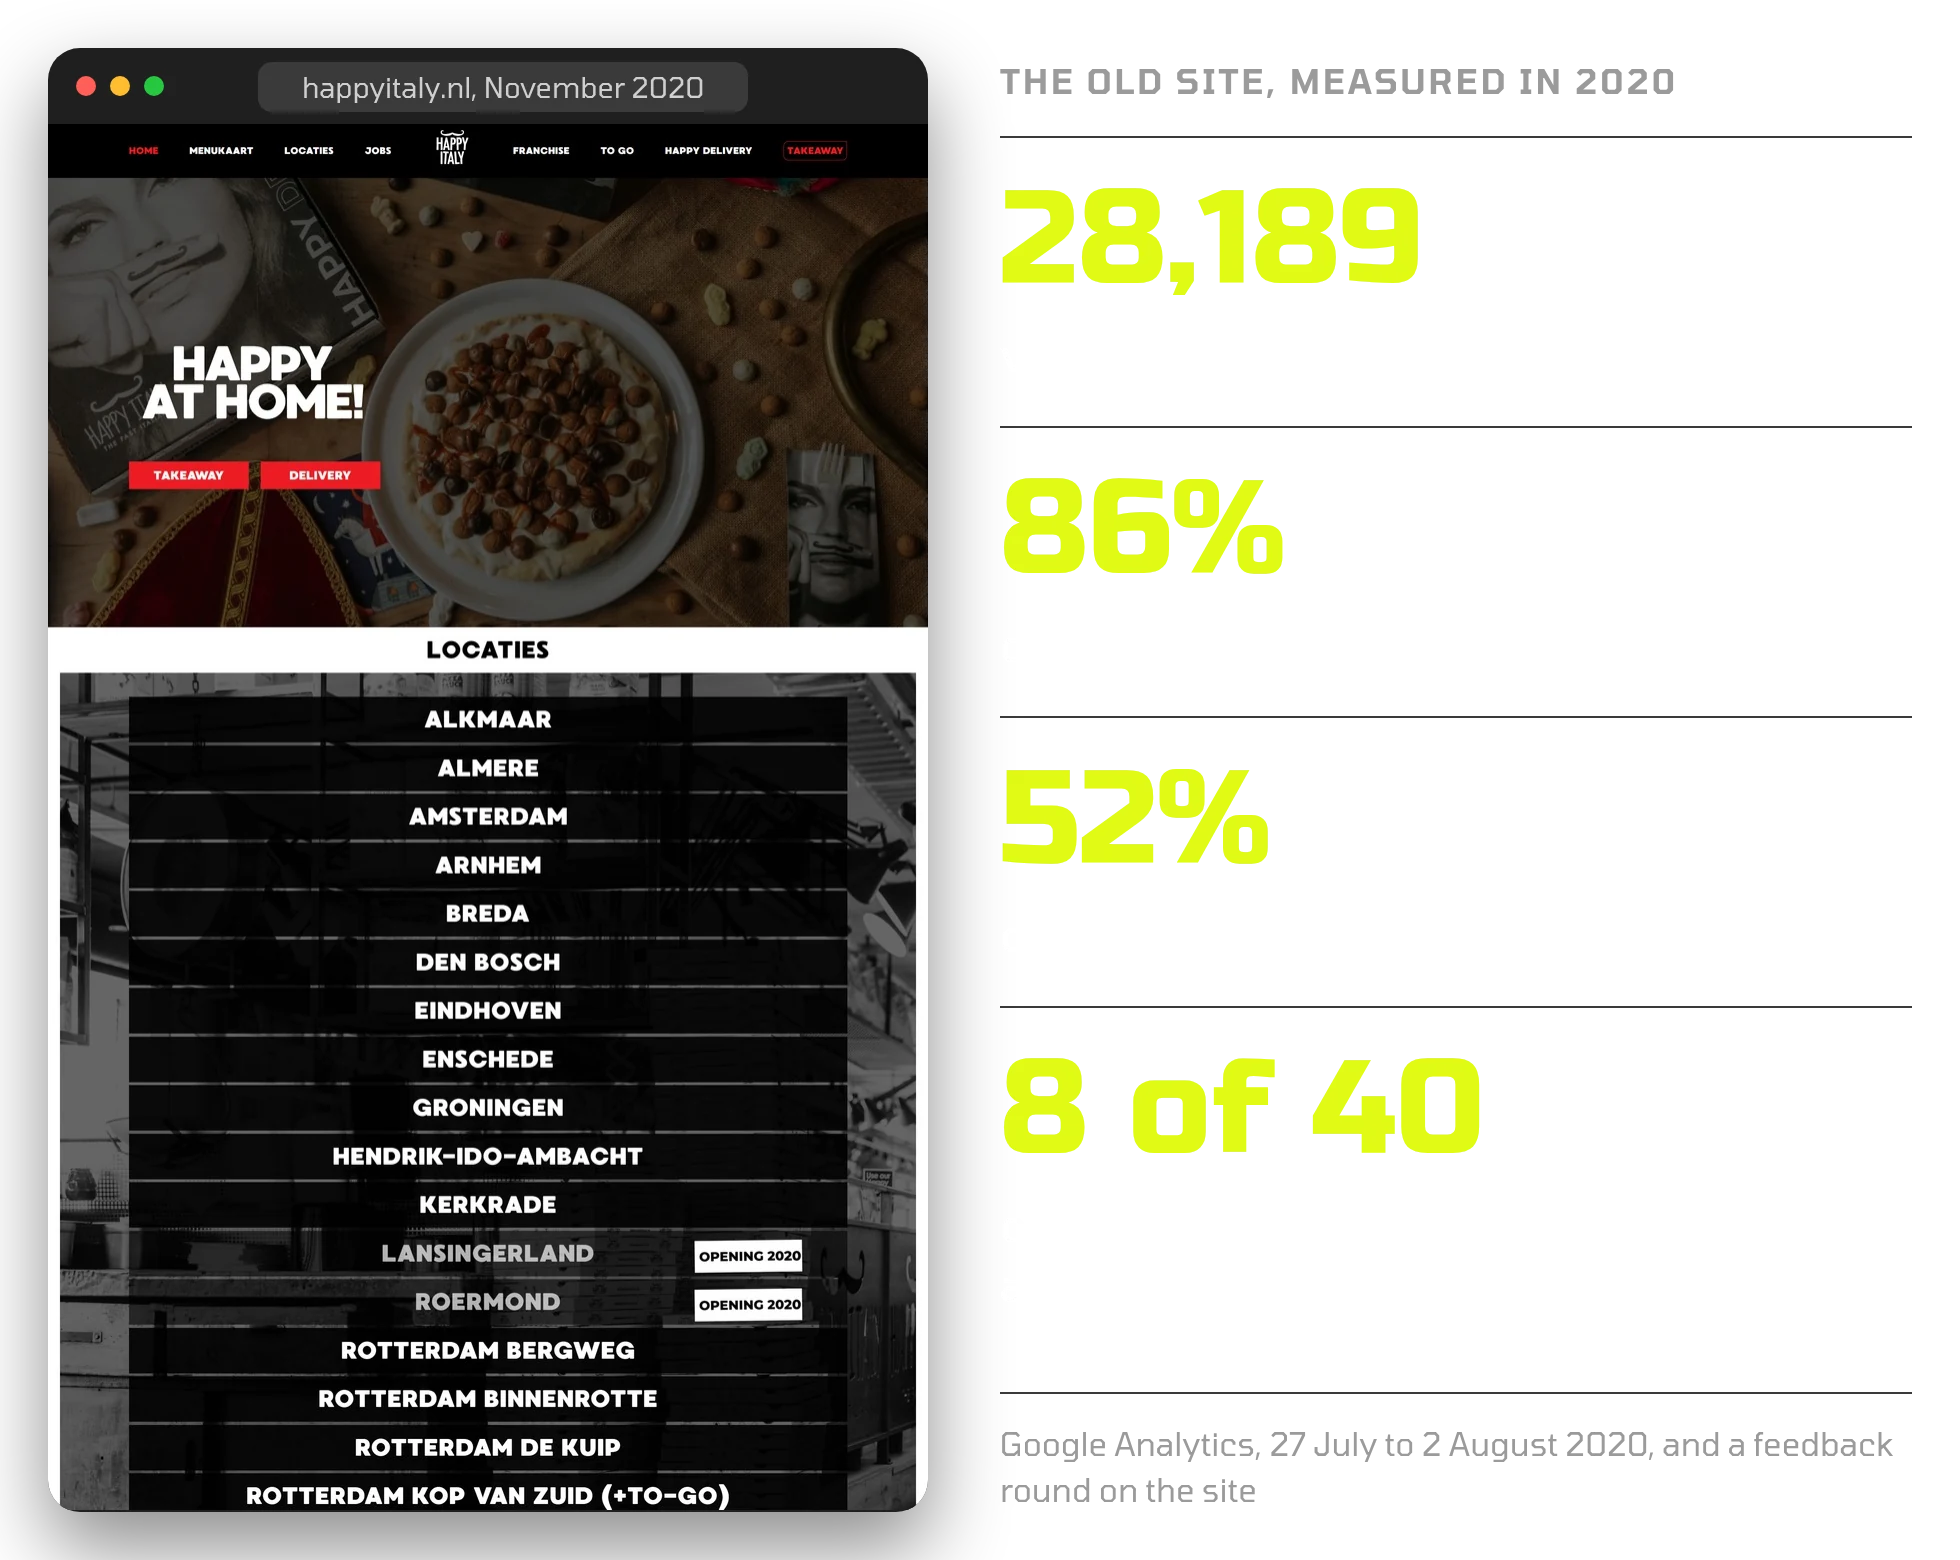
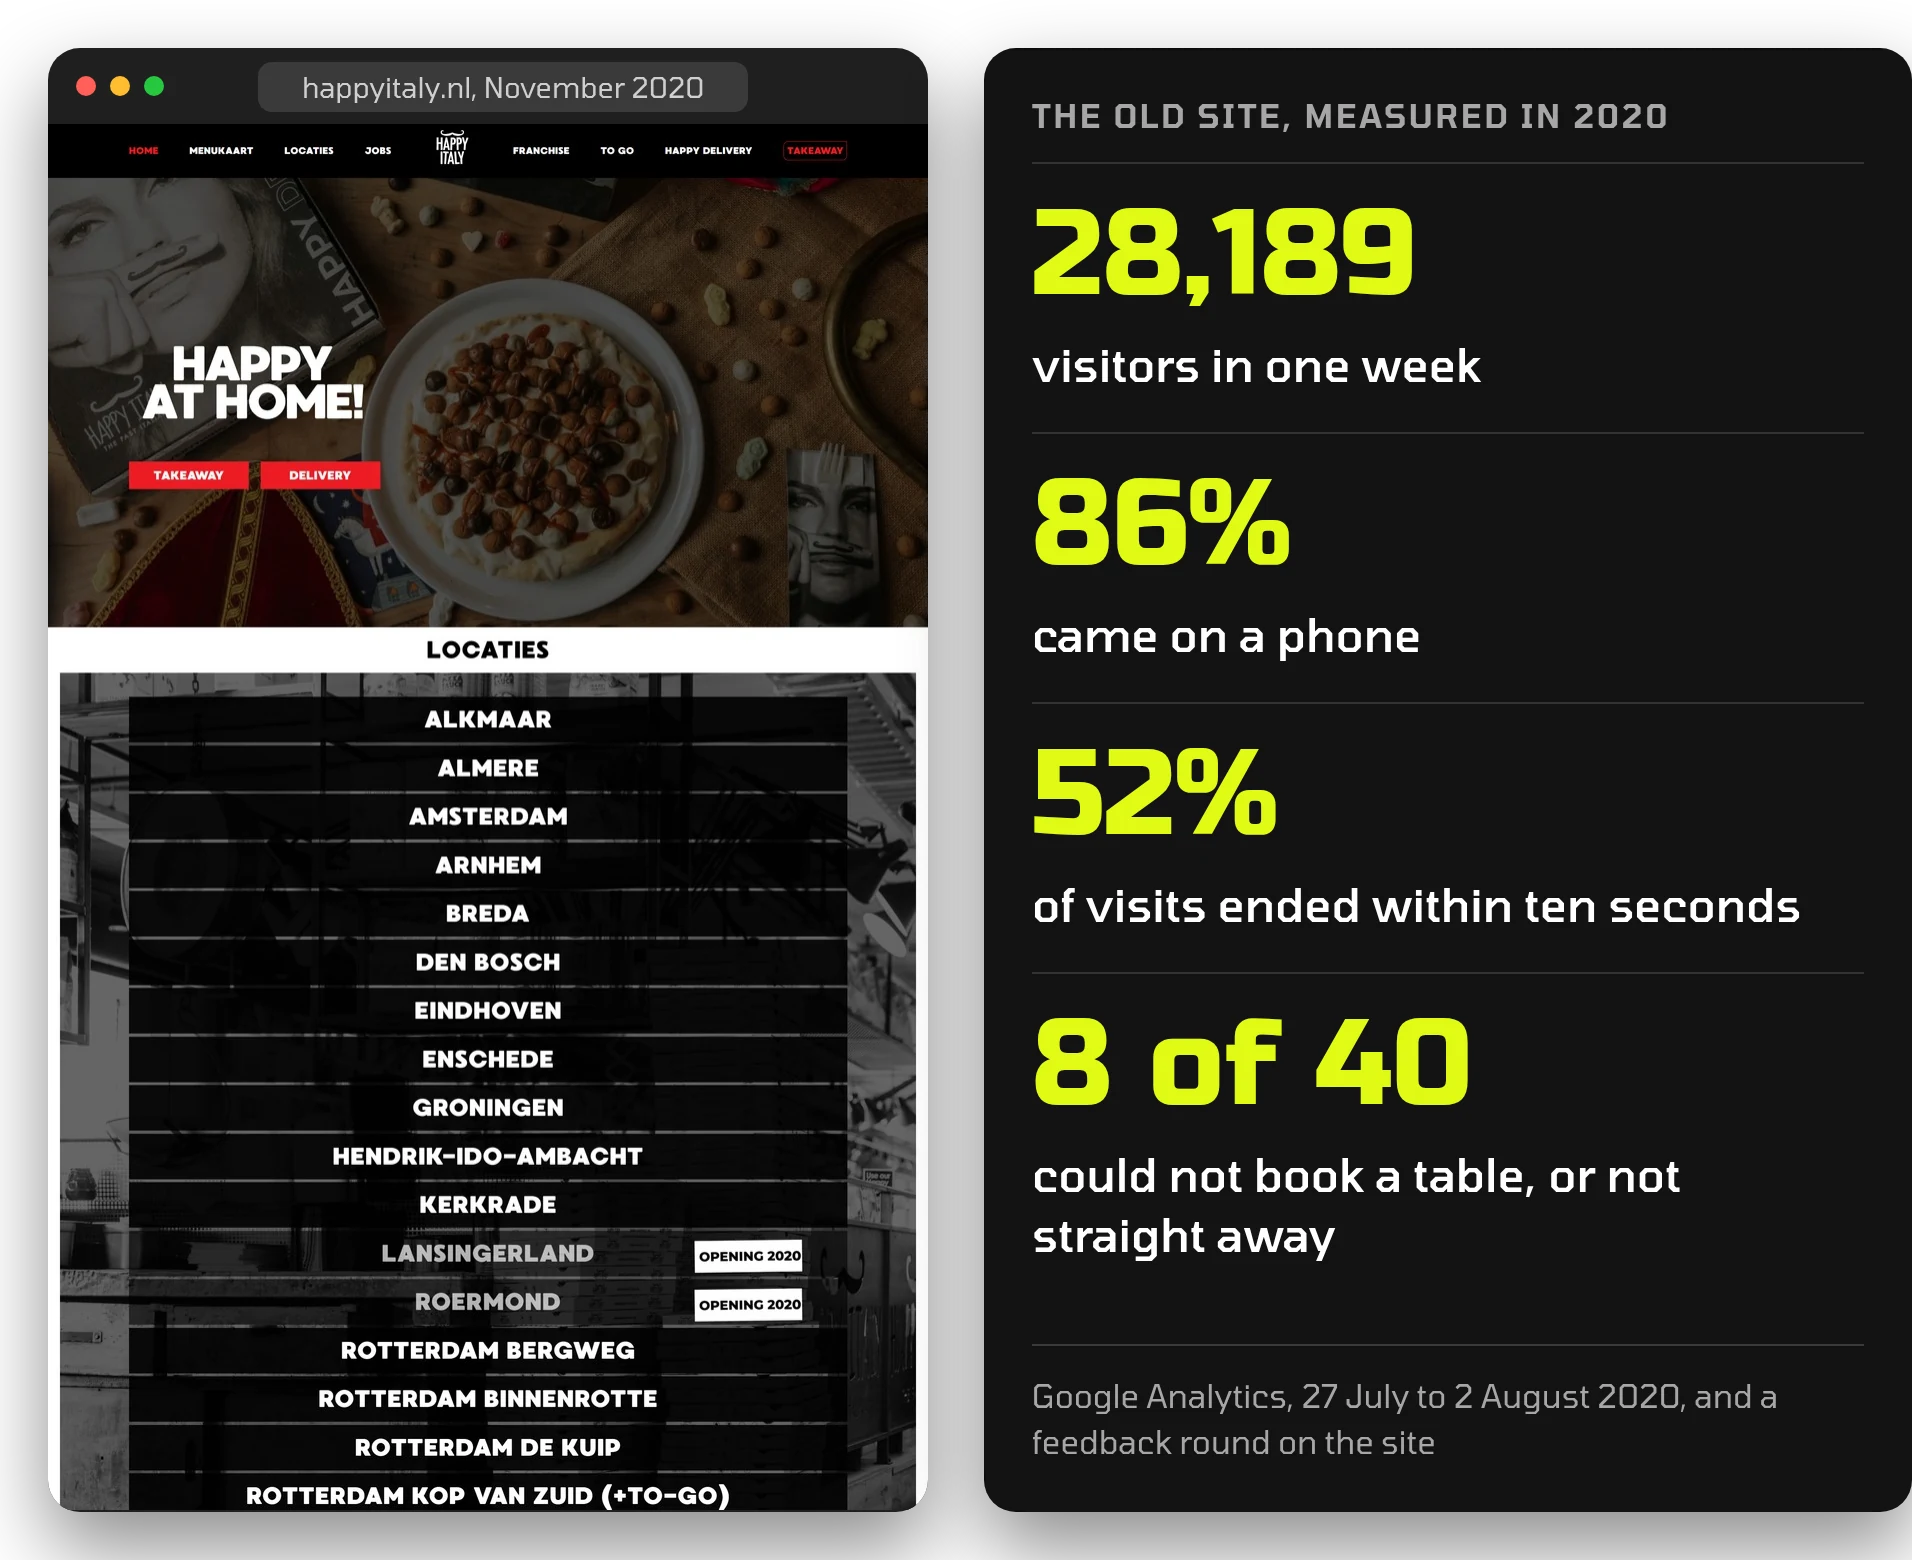
Happy Italy app: survey, ordering test, feedback concepts and handover facts from Musa's Drive; research panel readable in light theme [skip netlify]

diff --git a/src/data/work.ts b/src/data/work.ts
@@ -248,19 +248,21 @@ export const cases: Case[] = [
 	{
 		// Happy Italy app. Rewritten 17 Nov 2026 from Musa's 2021 case page and his Figma files; facts confirmed by Musa.
 		// Split from the website on Musa's request. Never show the filled-in sign-up screens (real phone number and email).
+		// Drive (read 24 Nov 2026): survey export (93 responses), feedback concepts Oct 2020, flowchart Aug 2020, ordering test notes 14 Jun 2021
+		// (6 testers with notes, 24 to 42), handover notes Jul 2021 (soft launch near, scope cuts, coupon QR idea). Never quote the handover's credentials.
 		slug: 'happy-italy-app',
 		name: 'Happy Italy app',
 		title: 'A loyalty app scoped to what the tills could do',
-		summary: 'Happy Italy, a chain of 20 Italian restaurants, wanted a direct line to its guests while lockdowns kept the dining rooms closed. I designed its ordering and rewards app from research to the design system the developers built from, and cut the first version to what the restaurant systems could actually carry.',
+		summary: 'Happy Italy, a chain of 20 Italian restaurants, wanted a direct line to its guests while lockdowns kept the dining rooms closed. I designed its ordering and rewards app from a survey of 93 people to a tested ordering flow and the design system an outside agency built from, and cut the first version to what the restaurant systems could carry.',
 		field: 'var(--panel-3)',
 		ink: 'var(--on-panel-3)',
 		facts: [
 			['Role', 'UX designer: research, UX and visual design, prototyping and testing'],
-			['Worked with', 'Management, restaurant stakeholders, an external development team'],
+			['Worked with', 'Management, restaurant stakeholders, an external development agency'],
 			['Platform', 'iOS and Android'],
 			['Years', '2020 to 2021'],
-			['Status', 'Designed, tested and in development when I left in July 2021. Never launched: the chain changed owners and the app was not funded'],
-			['Research', 'A survey of 90+ people, interviews, Google Analytics and Hotjar'],
+			['Status', 'Designed, tested and in development when I left in July 2021, nearing a small soft launch. Never launched: the chain changed owners and the app was not funded'],
+			['Research', 'A survey of 93 people, interviews, Google Analytics, Hotjar and usability tests'],
 		],
 		front: {
 			mast: 'Happy Italy',
@@ -269,7 +271,7 @@ export const cases: Case[] = [
 			star: { kind: 'comp', img: '/img/happy/happy-cover.webp', alt: 'Five Happy Italy app screens: picking a day and time, a live coupon with its countdown, the home screen with coupons, the profile with points, and a coupon', w: 2400, h: 1399 },
 		},
 		chapter: {
-			body: 'An ordering and rewards app for a restaurant chain closed by the lockdowns: from a survey of [90]+ people to a [114]-screen prototype, with the first version cut to what the tills could carry.',
+			body: 'An ordering and rewards app for a restaurant chain closed by the lockdowns: from a survey of [93] people to a [114]-screen prototype, with the first version cut to what the tills could carry.',
 			visual: { kind: 'image', img: '/img/happy/happy-cover.webp', alt: 'Five Happy Italy app screens: picking a day and time, a live coupon with its countdown, the home screen with coupons, the profile with points, and a coupon', w: 2400, h: 1399 },
 		},
 		closing: {
@@ -291,7 +293,7 @@ export const cases: Case[] = [
 			{
 				heading: 'Research cut the wish list',
 				body: [
-					'The kick-off with the stakeholders produced far more features than a first version could hold. I surveyed 90+ people about using apps in restaurants, recruited through Facebook groups, the newsletter and Reddit, and combined it with interviews, Google Analytics and Hotjar.',
+					'The kick-off with the stakeholders produced far more features than a first version could hold. I surveyed 93 people about restaurants and apps, recruited mostly through Facebook groups and Reddit, and combined it with interviews, Google Analytics and Hotjar. Most had never downloaded a restaurant app, and several said they would not install one for a single visit. Those who saw value named deals you only get in the app, and ordering ahead.',
 					'One persona could not cover the guests of a restaurant chain, so I made two and used them to decide what went into the first version: ordering, coupons, points and feedback. Everything else went on a list for version 2. The option that lost: launching with everything the kick-off asked for.',
 				],
 				shot: { kind: 'image', img: '/img/happy/happy-personas.webp', alt: 'The two personas for the Happy Italy app, Charlotte and Wouter, with their needs and pain points', w: 1820, h: 1832 },
@@ -301,6 +303,7 @@ export const cases: Case[] = [
 				body: [
 					'Coupons were the reason guests said they would open the app, so they lead the home screen; I tested three menu structures as wireframes and built on the one guests found most natural.',
 					'A coupon is used in the restaurant, so the guest activates it in front of staff and it stays valid for 15 minutes, with the countdown on screen. A screenshot can’t be passed around, and staff see at a glance that it is live. Expired coupons stay on the home screen, greyed out, so nobody wonders where theirs went.',
+					'Showing a coupon still leaves staff to judge it, and in my handover I called it a source of arguments at the counter. For the next version I listed a unique QR code per coupon: staff scan it, the discount applies itself, and the chain sees how many coupons are used in the app and in the restaurant.',
 				],
 				shot: { kind: 'image', img: '/img/happy/happy-coupon.webp', alt: 'The coupon flow in the app: the coupon, the prompt to activate it in front of staff, and the live coupon counting down from 15 minutes', w: 2213, h: 1433 },
 			},
@@ -308,20 +311,23 @@ export const cases: Case[] = [
 				heading: 'Order where you are',
 				body: [
 					'One start for every way to order: takeaway, delivery, or order and pay at the table. Then the restaurant, the day and the time, so the menu, prices and pickup slot are those of that restaurant at that moment.',
-					'A clickable prototype went to a small group of testers, and ordering and paying were where they struggled. We enlarged the buttons and the type, and added a red badge on the cart the moment something is added, so guests can see it worked.',
+					'In June 2021 I tested three versions of the ordering flow with six people aged 24 to 42 who order food on their phone, with one task: order a margherita with extra cheese and pay. In the first, testers weren’t sure the pizza was in the cart, hunted for the extra topping and missed the payment method. The third confirmed every addition straight away, listed all toppings together and put the payment method in plain sight. All six found it the easiest, and four scored it 5 out of 5.',
+					'Still open after the test: more colour, because the dark screens felt less like Happy Italy to some, and choosing the pickup time at the end of the order.',
 				],
 				shot: { kind: 'image', img: '/img/happy/happy-ordering.webp', alt: 'A pizza page in the app before and after the prototype test: after the test, a large add-to-cart button with the price', w: 1690, h: 1373 },
 			},
 			{
 				heading: 'Feedback earns points',
 				body: [
-					'The chain wanted to hear from guests after a visit. Rating it takes stars, a few short questions and an optional comment, and earns points, so feedback sits inside the loyalty loop instead of in a survey email.',
+					'The chain wanted to hear from guests while the visit was still fresh. In the flow I drew, the request comes a while after the order or once the till marks the bill paid, and answering earns points, so feedback sits inside the loyalty loop instead of in a survey email.',
+					'I explored several ways to ask. The option that lost: one question per screen, with faces and a progress line towards a trophy. The prototype kept five quick star ratings on one sheet, on the service, the speed, the food, the atmosphere and the menu, each with an optional comment.',
 				],
+				shot: { kind: 'image', img: '/img/happy/happy-feedback.webp', alt: 'Rating a visit in the app. Kept: a prompt that promises points, then five quick star ratings on one sheet, on the service, the speed, the food, the atmosphere and the menu. Explored: one question per screen with faces and a progress line, ending in plus ten points', w: 2576, h: 1200 },
 			},
 			{
 				heading: 'Rewards waited for the till',
 				body: [
-					'During the build it turned out the till and the online ordering platform could not yet handle claiming rewards with points. We took claiming out of the first version instead of shipping a flow that would fail at the counter; guests kept collecting points until the systems caught up.',
+					'During the build it turned out the till and the online ordering platform could not yet handle claiming rewards with points. We took claiming out of the first version instead of shipping a flow that would fail at the counter; guests kept collecting points until the systems caught up. The same limit held back allergens: I had designed them, but the till’s back office couldn’t hold them yet.',
 					'Because the app waits on several outside systems, I designed a loading state for every screen that does, so guests always see that something is happening.',
 				],
 			},
@@ -330,20 +336,21 @@ export const cases: Case[] = [
 				body: [
 					'There was no design system for web or app. I built one from the 2018 brand identity, updated so it would not look like the fast-food apps: type, colour sets for dark and light mode and for coupons, icons, navigation and 34 components.',
 					'Every app screen exists in dark and light. I checked colour pairs against WCAG 2.0 contrast and refined the library before handing it to the external developers.',
+					'An outside agency built the app on the till supplier’s system, which held the menu and prices. I tested the builds at the office and fed what I found back to the developers through their tracker.',
 				],
 				shot: { kind: 'image', img: '/img/happy/happy-system.webp', alt: 'Part of the Happy Italy design system: brand and coupon colours, dark and light greys, coupon cards, buttons, navigation and the points block', w: 2207, h: 1560 },
 			},
 			{
 				heading: 'What happened next',
 				body: [
-					'In the second half of 2021 the chain changed owners, and the new owner did not fund the app. I had left in July 2021, while it was in development.',
+					'When I left in July 2021, the first version was nearing a small soft launch, and I wrote a handover for the next designer: what to test, and what waited for later versions, from order history and favourites to booking a table in the app and following your order live. Later that year the chain changed owners, and the new owner did not fund the app.',
 				],
 			},
 			{
 				heading: 'What we tested, what shipped, what I can’t show',
 				body: [
 					'Shipped to the developers: the design system and a 114-screen prototype.',
-					'Seen: the survey, and the prototype tests that changed ordering and checkout.',
+					'Tested: the survey of 93 people, and the June 2021 ordering test, where all six testers found the third version the easiest.',
 					'No launch data: the app never reached guests.',
 				],
 			},
@@ -409,7 +416,7 @@ export const cases: Case[] = [
 					'In a short feedback round on the site, 8 of 40 people could not book a table or did not see how straight away. I then gave five colleagues at head office three tasks in Lookback: order takeaway, book a table for two at eight, and look at the menu while you wait. The menu was a popup of plain text, one tester said she couldn’t see what she was choosing, and allergen information sat two clicks away from the dish.',
 					'While the tests ran, I cut one step from the booking path on the old site straight away. The rest needed a new site.',
 				],
-				shot: { kind: 'image', img: '/img/happy/happy-web-research.webp', alt: 'The old Happy Italy homepage in November 2020, with the restaurants stacked down the page, next to the numbers measured in 2020: 28,189 visitors in one week, 86% on a phone, 52% of visits ended within ten seconds, and 8 of 40 people could not book a table or not straight away', w: 1960, h: 1560 },
+				shot: { kind: 'image', img: '/img/happy/happy-web-research.webp', alt: 'The old Happy Italy homepage in November 2020, with the restaurants stacked down the page, next to the numbers measured in 2020: 28,189 visitors in one week, 86% on a phone, 52% of visits ended within ten seconds, and 8 of 40 people could not book a table or not straight away', w: 1912, h: 1560 },
 			},
 			{
 				heading: 'A site head office could edit itself',
